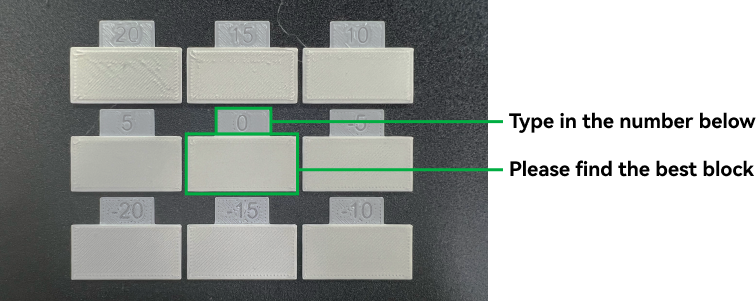
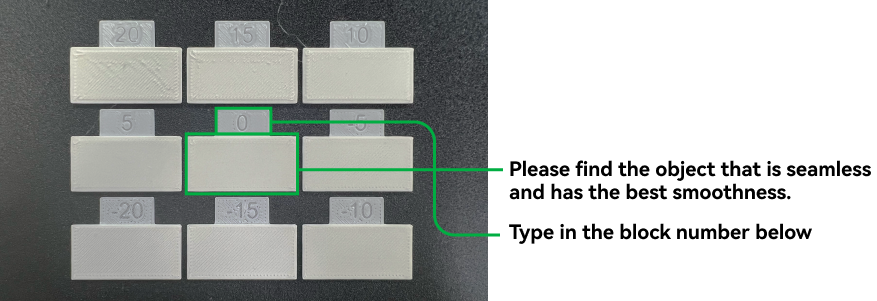
FIX: add Chinese pictures in cali page
(cherry picked from commit 848e51c5da6d9c5c3f4227ed6dc706b19e9eceae)

Changed region(s): [[0.0608, 0.0, 1.0, 1.0], [0.2738, 0.0, 0.3347, 0.0299], [0.3651, 0.0, 0.3955, 0.0299]]

diff --git a/src/slic3r/GUI/CalibrationWizardSavePage.cpp b/src/slic3r/GUI/CalibrationWizardSavePage.cpp
@@ -514,7 +514,11 @@ void CaliPASaveManualPanel::create_panel(wxWindow* parent)
 }
 
 void CaliPASaveManualPanel::set_save_img() {
-    m_picture_panel->set_img(create_scaled_bitmap("fd_calibration_manual_result", nullptr, 330));
+    if (wxGetApp().app_config->get_language_code() == "zh-cn") { 
+        m_picture_panel->set_img(create_scaled_bitmap("fd_calibration_manual_result_CN", nullptr, 330));
+    } else {
+        m_picture_panel->set_img(create_scaled_bitmap("fd_calibration_manual_result", nullptr, 330));
+    }
 }
 
 void CaliPASaveManualPanel::set_default_name(const wxString& name) {
@@ -649,7 +653,11 @@ void CaliPASaveP1PPanel::create_panel(wxWindow* parent)
 }
 
 void CaliPASaveP1PPanel::set_save_img() {
-    m_picture_panel->set_img(create_scaled_bitmap("fd_calibration_manual_result", nullptr, 350));
+    if (wxGetApp().app_config->get_language_code() == "zh-cn") {
+        m_picture_panel->set_img(create_scaled_bitmap("fd_calibration_manual_result_CN", nullptr, 350));
+    } else {
+        m_picture_panel->set_img(create_scaled_bitmap("fd_calibration_manual_result", nullptr, 350));
+    }
 }
 
 bool CaliPASaveP1PPanel::get_result(float* out_k, float* out_n){
@@ -1220,7 +1228,11 @@ void CalibrationFlowCoarseSavePage::create_page(wxWindow* parent)
 }
 
 void CalibrationFlowCoarseSavePage::set_save_img() {
-    m_picture_panel->set_img(create_scaled_bitmap("flow_rate_calibration_coarse_result", nullptr, 350));
+    if (wxGetApp().app_config->get_language_code() == "zh-cn") { 
+        m_picture_panel->set_img(create_scaled_bitmap("flow_rate_calibration_coarse_result_CN", nullptr, 350));
+    } else {
+        m_picture_panel->set_img(create_scaled_bitmap("flow_rate_calibration_coarse_result", nullptr, 350));
+    }
 }
 
 void CalibrationFlowCoarseSavePage::set_default_name(const wxString& name) {
@@ -1350,7 +1362,11 @@ void CalibrationFlowFineSavePage::create_page(wxWindow* parent)
 }
 
 void CalibrationFlowFineSavePage::set_save_img() {
-    m_picture_panel->set_img(create_scaled_bitmap("flow_rate_calibration_fine_result", nullptr, 350));
+    if (wxGetApp().app_config->get_language_code() == "zh-cn") { 
+        m_picture_panel->set_img(create_scaled_bitmap("flow_rate_calibration_fine_result_CN", nullptr, 350));
+    } else {
+        m_picture_panel->set_img(create_scaled_bitmap("flow_rate_calibration_fine_result", nullptr, 350));
+    }
 }
 
 void CalibrationFlowFineSavePage::set_default_name(const wxString& name) {

diff --git a/src/slic3r/GUI/CalibrationWizardStartPage.cpp b/src/slic3r/GUI/CalibrationWizardStartPage.cpp
@@ -89,7 +89,11 @@ void CalibrationPAStartPage::create_page(wxWindow* parent)
     m_top_sizer->Add(m_when_content);
     m_top_sizer->AddSpacer(PRESET_GAP);
 
-    create_bitmap(parent, "cali_page_before_pa", "cali_page_after_pa");
+    if (wxGetApp().app_config->get_language_code() == "zh-cn") { 
+        create_bitmap(parent, "cali_page_before_pa_CN", "cali_page_after_pa_CN");
+    } else {
+        create_bitmap(parent, "cali_page_before_pa", "cali_page_after_pa");
+    }
     m_top_sizer->Add(m_images_sizer, 0, wxALL, 0);
     m_top_sizer->AddSpacer(PRESET_GAP);
 
@@ -199,7 +203,11 @@ void CalibrationFlowRateStartPage::create_page(wxWindow* parent)
     m_top_sizer->Add(m_when_content);
     m_top_sizer->AddSpacer(PRESET_GAP);
 
-    create_bitmap(parent, "cali_page_flow_introduction");
+    if (wxGetApp().app_config->get_language_code() == "zh-cn") { 
+        create_bitmap(parent, "cali_page_flow_introduction_CN");
+    } else {
+        create_bitmap(parent, "cali_page_flow_introduction");
+    }
     m_top_sizer->Add(m_images_sizer, 0, wxALL, 0);
     m_top_sizer->AddSpacer(PRESET_GAP);
 
@@ -326,7 +334,11 @@ void CalibrationMaxVolumetricSpeedStartPage::create_page(wxWindow* parent)
 
     m_top_sizer->AddSpacer(PRESET_GAP);
 
-    create_bitmap(parent, "cali_page_before_pa", "cali_page_after_pa");
+    if (wxGetApp().app_config->get_language_code() == "zh-cn") {
+        create_bitmap(parent, "cali_page_before_pa_CN", "cali_page_after_pa_CN");
+    } else {
+        create_bitmap(parent, "cali_page_before_pa", "cali_page_after_pa");
+    }
 
     m_top_sizer->Add(m_images_sizer, 0, wxALL, 0);
 
